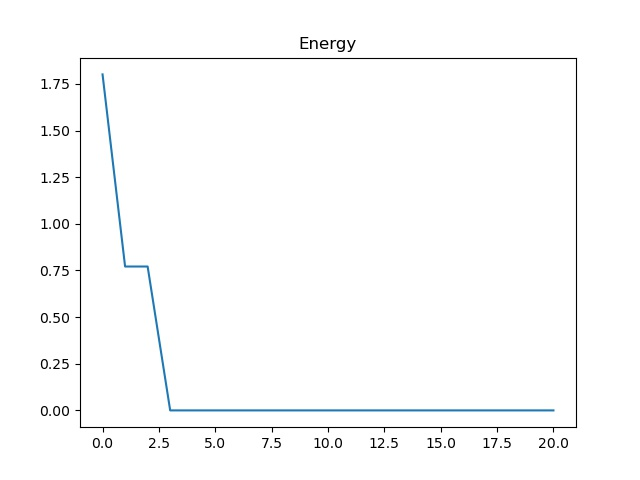
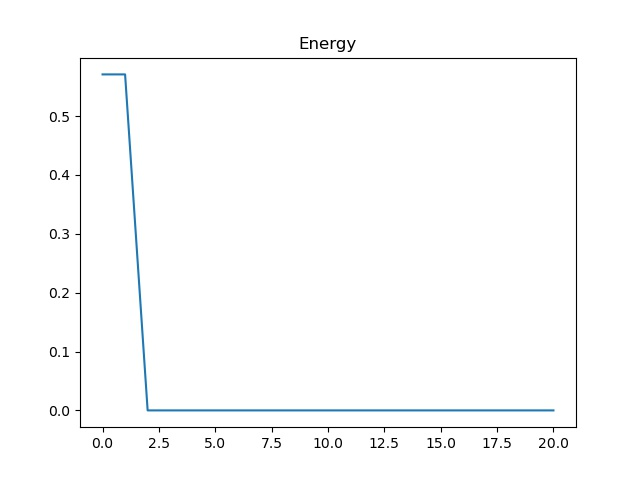
Permets de tester 6 positions initiales différentes

diff --git a/demo_control_polycopie.py b/demo_control_polycopie.py
@@ -24,13 +24,60 @@ import pdb
 
 import random
 
+######################################################
+############ Distributions initiales #################
+######################################################
+
+
+def distributions_init(x, budget):
+    distributions = []
+    budget *= 10
+
+    ### Distribution en 1 bloc ###
+    distributions.append(
+        list(range(int(2*(len(x)-1)//10), int((2+budget)*(len(x)-1)//10))))
+    distributions.append(
+        list(range(int(5*(len(x)-1)//10), int((5+budget)*(len(x)-1)//10))))
+
+    ### Distribution en 2 blocs ###
+    add = list(range(int(2*(len(x)-1)//10), int((2+budget/2)*(len(x)-1)//10)))
+    add.extend(list(range(int((2+2*budget)*(len(x)-1)//10),
+                          int((2+2.5*budget)*(len(x)-1)//10))))
+    distributions.append(add)
+    # distributions.append((list(range(int(2*(len(x)-1)//10), int((2+budget/2)*(len(x)-1)//10)))).extend(
+    #     list(range(int((2+2*budget)*(len(x)-1)//10), int((2+2.5*budget)*(len(x)-1)//10)))))
+    add = list(range((int(len(x)-1)//10), int((1+budget/2)*(len(x)-1)//10)))
+    add.extend(list(range(int((1+2*budget)*(len(x)-1)//10),
+                          int((1+2.5*budget)*(len(x)-1)//10))))
+    distributions.append(add)
+    # distributions.append((list(range((int(len(x)-1)//10), int((1+budget/2)*(len(x)-1)//10)))).extend(
+    #     list(range(int((1+3*budget)*(len(x)-1)//10), int((1+3.5*budget)*(len(x)-1)//10)))))
+    add = list(range(int((5-budget)*(len(x)-1)//10),
+                     int((5-budget/2)*(len(x)-1)//10)))
+    add.extend(
+        list(range(int((5+budget/2)*(len(x)-1)//10), int((5+budget)*(len(x)-1)//10))))
+    distributions.append(add)
+    # distributions.append((list(range(int((5-budget)*(len(x)-1)//10), int((5-budget/2)*(len(x)-1)//10))
+    #                            ).extend(list(range(int((5+budget/2)*(len(x)-1)//10), int((5+budget)*(len(x)-1)//10))))))
+
+    ### Distribution en 3 blocs ###
+    add = list(range(int(0*(len(x)-1)//10), int((budget/3)*(len(x)-1)//10)))
+    add.extend(list(range(int(
+        4*(len(x)-1)//10), int((4+budget/3)*(len(x)-1)//10))))
+    add.extend(list(range(int((10-budget/3)*(len(x)-1)//10), int(len(x)-1))))
+    distributions.append(add)
+    '''distributions.append(((list(range(int(0*(len(x)-1)//10), int((budget/3)*(len(x)-1)//10)))).extend(list(range(int(
+        4*(len(x)-1)//10), int((4+budget/3)*(len(x)-1)//10))))).extend(list(range(int((10-budget/3)*(len(x)-1)//10), int(len(x)-1)))))
+'''
+    return distributions
+
 
 def your_optimization_procedure(domain_omega, spacestep, wavenumber, f, f_dir, f_neu, f_rob,
                                 beta_pde, alpha_pde, alpha_dir, beta_neu, beta_rob, alpha_rob,
                                 Alpha, mu, chi, V_obj, mu1, V_0):
 
     eps1 = 0.01
-    eps2_0 = 30
+    eps2_0 = 550
     eps2 = eps2_0
     eps0 = 0.00001
     """This function return the optimized density.
@@ -82,7 +129,7 @@ def your_optimization_procedure(domain_omega, spacestep, wavenumber, f, f_dir, f
 
         Jp[1:, :] = Jp[:-1, :]
 
-        postprocessing._plot_perso_solution(Jp, chi*0)
+        #postprocessing._plot_perso_solution(Jp, chi*0)
 
         while ene >= energy[k] and mu > eps0:
             l = 0
@@ -93,17 +140,16 @@ def your_optimization_procedure(domain_omega, spacestep, wavenumber, f, f_dir, f
 
             # print('    b. computing projected gradient')
 
-            int = integral(chi_next)
+            int0 = integral(chi_next)
             eps2 = eps2_0
 
-            while abs(int-V_obj) >= eps1:
-                if int > V_obj:
+            while abs(int0-V_obj) >= eps1:
+                if int0 > V_obj:
                     l -= eps2
                 else:
                     l += eps2
-                print(l)
                 chi_next = projector(chi-mu*Jp, l, domain_omega)
-                int = integral(chi_next)
+                int0 = integral(chi_next)
                 eps2 /= 2
                 # print(V_obj, int, eps2, l)
                 # postprocessing._plot_perso_solution(chi_next, chi*0)
@@ -192,8 +238,10 @@ if __name__ == '__main__':
     # -- set parameters of the geometry
     N = 40  # number of points along x-axis
     M = 2 * N  # number of points along y-axis
-    level = 2  # level of the fractal : limited by N
+    level = 0  # level of the fractal : limited by N
     spacestep = 1.0 / N  # mesh size
+
+    budget = 0.3
 
     # -- set parameters of the partial differential equation
     kx = -1.0
@@ -238,73 +286,75 @@ if __name__ == '__main__':
     # indices.sort()
 
     # -- define subset of border on which we put the liner
-    # modify this to change liners distribution
-
-    indices = list(range(2*(len(x)-1)//10, 4*(len(x)-1)//10))
-
-    indices.extend(list(range(6*(len(x)-1)//10, 8*(len(x)-1)//10)))
-    # print(indices)
-
+    list_indice = distributions_init(x, budget)
     # budget : percentage of the border we can cover with liners
-    budget = len(indices)/len(x)
+    # print(list_indice)
+    energy_final = []
 
-    x_sub = [x[k] for k in indices]
-    y_sub = [y[k] for k in indices]
+    for o in range(len(list_indice)):
+        indices = list_indice[o]
+        x_sub = [x[k] for k in indices]
+        y_sub = [y[k] for k in indices]
 
     # -- define material density matrix
-    chi = preprocessing._set_chi(M, N, x_sub, y_sub)
-    chi = preprocessing.set2zero(chi, domain_omega)
+        chi = preprocessing._set_chi(M, N, x_sub, y_sub)
+        chi = preprocessing.set2zero(chi, domain_omega)
 
     # -- define absorbing material
-    al = alpha_compute.compute(wavenumber*340)
-    Alpha = al[0] + 1.0j*al[1]
+        al = alpha_compute.compute(wavenumber*340)
+        Alpha = al[0] + 1.0j*al[1]
 
     # -- this is the function you have written during your project
     #import compute_alpha
     #Alpha = compute_alpha.compute_alpha(...)
-    alpha_rob = Alpha * chi
+        alpha_rob = Alpha * chi
 
     # -- set parameters for optimization
-    S = 0  # surface of the fractal
-    for i in range(0, M):
-        for j in range(0, N):
-            if domain_omega[i, j] == _env.NODE_ROBIN:
-                S += 1
-    V_0 = 1  # initial volume of the domain
+        S = 0  # surface of the fractal
+        for i in range(0, M):
+            for j in range(0, N):
+                if domain_omega[i, j] == _env.NODE_ROBIN:
+                    S += 1
+        V_0 = 1  # initial volume of the domain
     # V_obj = numpy.sum(numpy.sum(chi)) / S  # constraint on the density
-    V_obj = numpy.sum(numpy.sum(chi))
-    mu = 1000000  # initial gradient step
-    mu1 = 10**(-5)  # parameter of the volume functional
+        V_obj = numpy.sum(numpy.sum(chi))
+        mu = 0.3  # initial gradient step
+        mu1 = 10**(-5)  # parameter of the volume functional
 
     # ----------------------------------------------------------------------
     # -- Do not modify this cell, these are the values that you will be assessed against.
     # ----------------------------------------------------------------------
     # -- compute finite difference solution
-    u = processing.solve_helmholtz(domain_omega, spacestep, wavenumber, f, f_dir, f_neu, f_rob,
-                                   beta_pde, alpha_pde, alpha_dir, beta_neu, beta_rob, alpha_rob)
-    chi0 = chi.copy()
-    u0 = u.copy()
+        u = processing.solve_helmholtz(domain_omega, spacestep, wavenumber, f, f_dir, f_neu, f_rob,
+                                       beta_pde, alpha_pde, alpha_dir, beta_neu, beta_rob, alpha_rob)
+        chi0 = chi.copy()
+        u0 = u.copy()
 
     # ----------------------------------------------------------------------
     # -- Fell free to modify the function call in this cell.
     # ----------------------------------------------------------------------
     # -- compute optimization
-    energy = numpy.zeros((100+1, 1), dtype=numpy.float64)
-    chi, energy, u, grad = your_optimization_procedure(domain_omega, spacestep, wavenumber, f, f_dir, f_neu,
-                                                       f_rob, beta_pde, alpha_pde, alpha_dir, beta_neu, beta_rob, alpha_rob, Alpha, mu, chi, V_obj, mu1, V_0)
+        energy = numpy.zeros((100+1, 1), dtype=numpy.float64)
+        chi, energy, u, grad = your_optimization_procedure(domain_omega, spacestep, wavenumber, f, f_dir, f_neu,
+                                                           f_rob, beta_pde, alpha_pde, alpha_dir, beta_neu, beta_rob, alpha_rob, Alpha, mu, chi, V_obj, mu1, V_0)
     # chi, energy, u, grad = solutions.optimization_procedure(domain_omega, spacestep, wavenumber, f, f_dir, f_neu, f_rob,
     #                    beta_pde, alpha_pde, alpha_dir, beta_neu, beta_rob, alpha_rob,
     #                    Alpha, mu, chi, V_obj, mu1, V_0)
     # --- en of optimization
 
-    chin = chi.copy()
-    un = u.copy()
+        chin = chi.copy()
+        un = u.copy()
 
     # -- plot chi, u, and energy
-    postprocessing._plot_uncontroled_solution(u0, chi0)
-    postprocessing._plot_controled_solution(un, chin)
-    err = un - u0
-    postprocessing._plot_error(err)
-    postprocessing._plot_energy_history(energy)
-
+        mini = energy[0]
+        for p in range(len(energy)):
+            if energy[p] > 0 and energy[p] < mini:
+                mini = energy[p]
+        energy_final.append(mini)
+        postprocessing._plot_uncontroled_solution(u0, chi0)
+        postprocessing._plot_controled_solution(un, chin)
+        err = un - u0
+        postprocessing._plot_error(err)
+        postprocessing._plot_energy_history(energy)
+    print(energy_final)
     print('End.')
